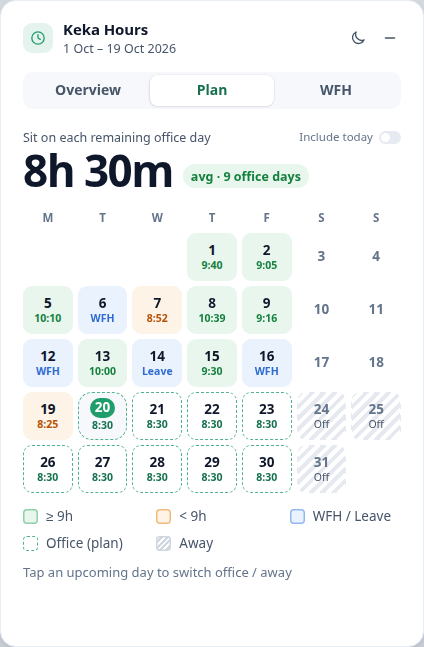
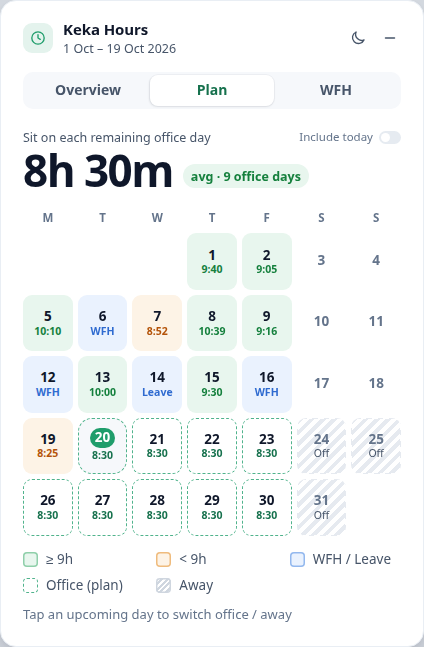
Plan: calendar rows fill the card (no cramped cells, no empty space)
The today strip moved to Overview, which is now the tallest tab, so Plan had
empty space at the bottom while six-week months still used squeezed 39px
cells. The calendar now stretches: its rows share the card's height, from
48px (44px in a six-week month, 44/38px on narrow screens).

diff --git a/src/content/ui.js b/src/content/ui.js
@@ -229,6 +229,8 @@ svg { width: 100%; height: 100%; display: block; }
 .pane.off { visibility: hidden; pointer-events: none; }
 .pane[data-pane="overview"] { display: flex; flex-direction: column; }
 .pane[data-pane="wfh"] { display: flex; flex-direction: column; }
+/* Plan: the calendar's rows share whatever height the card has (it's as tall as the tallest tab). */
+.pane[data-pane="plan"] { display: flex; flex-direction: column; }
 
 /* ---------- Overview: the average, then cards ---------- */
 .ov-hero { position: relative; padding: 6px 0 26px; }
@@ -417,9 +419,9 @@ svg { width: 100%; height: 100%; display: block; }
 .plan-sub { margin-top: 6px; font-size: 13.5px; color: var(--muted); }
 .plan-sub b { color: var(--text); font-weight: 600; }
 .hero-value.word { font-size: 34px; }
-.cal { display: grid; grid-template-columns: repeat(7, minmax(0, 1fr)); gap: 5px; }
+.cal { flex: 1; display: grid; grid-template-columns: repeat(7, minmax(0, 1fr)); grid-template-rows: auto; grid-auto-rows: minmax(var(--cell-h, 48px), 1fr); gap: 5px; }
 .cal-h { padding-bottom: 2px; font-size: 11.5px; font-weight: 600; color: var(--subtle); text-align: center; }
-.cal-cell { position: relative; height: 48px; min-width: 0; border-radius: 9px; display: flex; flex-direction: column; align-items: center; justify-content: center; gap: 2px; color: var(--text); transition: transform .12s ease, border-color .12s ease, background .12s ease; }
+.cal-cell { position: relative; min-width: 0; border-radius: 9px; display: flex; flex-direction: column; align-items: center; justify-content: center; gap: 2px; color: var(--text); transition: transform .12s ease, border-color .12s ease, background .12s ease; }
 .cal-d { font-size: 13.5px; font-weight: 600; line-height: 1; }
 .cal-v { font-size: 10.5px; line-height: 1; color: var(--muted); white-space: nowrap; }
 .s-worked.good { background: var(--good-soft); }
@@ -433,8 +435,8 @@ svg { width: 100%; height: 100%; display: block; }
 .s-plan-office { border: 1.5px dashed var(--plan-line); background: var(--plan-bg); }
 .s-plan-office .cal-v { color: var(--brand-text); font-weight: 700; }
 .s-plan-away { color: var(--subtle); background: repeating-linear-gradient(135deg, var(--away-a) 0 4px, var(--away-b) 4px 8px); border: 1.5px solid transparent; }
-/* A month spanning six weeks gets shorter cells, so the card stays its usual height. */
-.cal.six .cal-cell { height: 39px; }
+/* A month spanning six weeks starts from shorter rows, so the card stays its usual height. */
+.cal.six { --cell-h: 44px; }
 button.cal-cell:hover { transform: translateY(-1px); border-color: var(--brand); border-style: solid; }
 /* Today: the date in a filled circle (the cell keeps its own colour). */
 .cal-cell.today .cal-d { display: grid; place-items: center; min-width: 20px; height: 20px; padding: 0 5px; border-radius: 999px; background: var(--brand); color: #fff; font-weight: 700; }
@@ -550,7 +552,7 @@ button.cal-cell:hover { transform: translateY(-1px); border-color: var(--brand);
 @keyframes kh-shimmer { to { background-position: -200% 0; } }
 @media (prefers-reduced-motion: reduce) { * { animation: none !important; transition: none !important; } }
 @media (max-width: 480px) {
-  .hero-value { font-size: 38px; } .ov-value { font-size: 44px; } .cal-cell { height: 44px; } .cal.six .cal-cell { height: 36px; }
+  .hero-value { font-size: 38px; } .ov-value { font-size: 44px; } .cal { --cell-h: 44px; } .cal.six { --cell-h: 38px; }
   .head { padding: 16px 14px 12px 16px; } .content { padding: 2px 16px 16px; } .ov-wave { left: -16px; right: -16px; }
   .ov-cell { padding: 11px 12px; } .ov-v { font-size: 18.5px; } .tabs { margin: 0 16px 12px; }
 }
